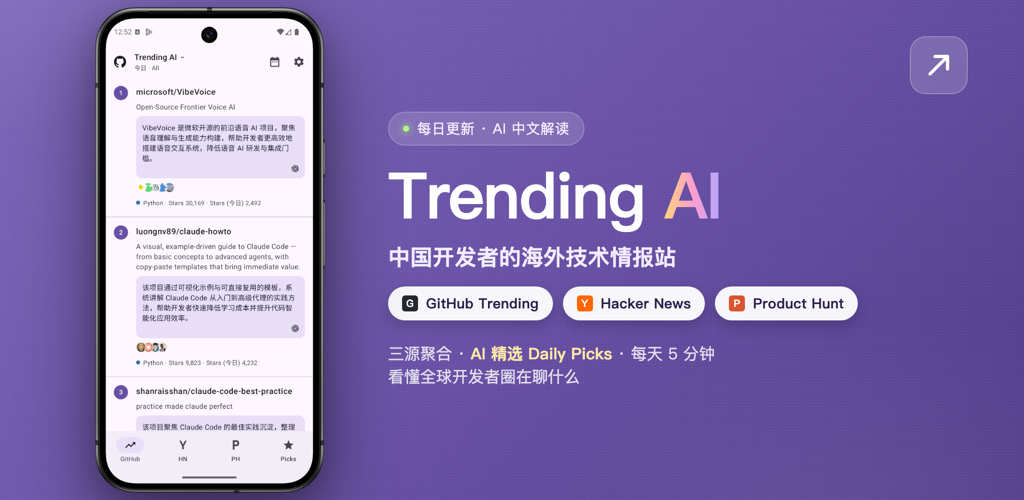
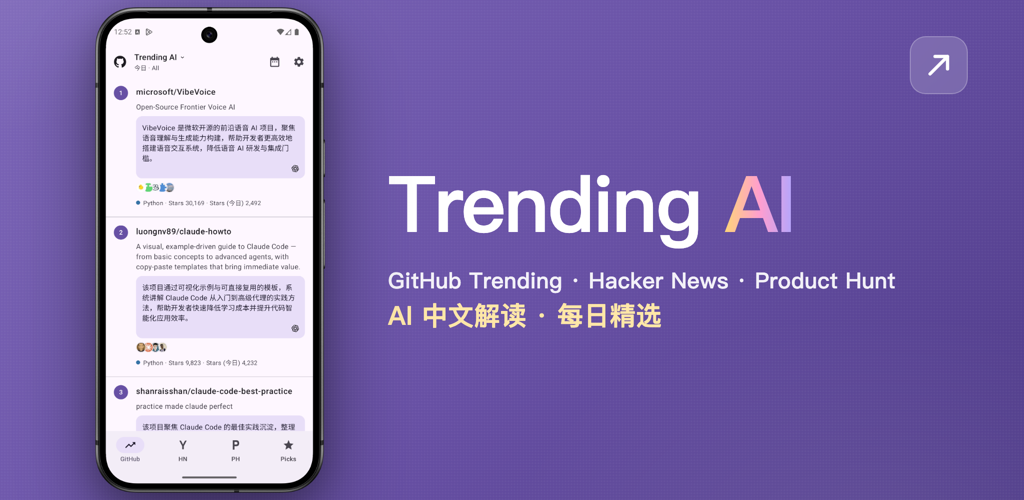
chore(assets): 简化置顶大图右侧文案
- 删除顶部胶囊、副标、三源徽章、底部描述行
- 主标加大至 78px，整体只剩两层：主标 + 单行副标
- 副标拆分突出「AI 中文解读 · 每日精选」金色高亮，强调中文化差异点

Changed region(s): [[0.375, 0.33, 0.875, 0.66], [0.375, 0.69, 0.7188, 0.78], [0.375, 0.21, 0.5938, 0.3]]

diff --git a/assets/feature-graphic.html b/assets/feature-graphic.html
@@ -73,11 +73,24 @@
     box-shadow: 0 0 8px #B4FF7A;
   }
   h1 {
-    font-size: 64px;
+    font-size: 78px;
     font-weight: 800;
     line-height: 1.0;
-    margin: 0 0 14px;
-    letter-spacing: -1.5px;
+    margin: 0 0 22px;
+    letter-spacing: -1.8px;
+  }
+  .tagline {
+    font-size: 22px;
+    line-height: 1.45;
+    color: rgba(255,255,255,0.92);
+    font-weight: 500;
+    letter-spacing: 0.2px;
+    max-width: 560px;
+  }
+  .tagline b {
+    color: #FFE7A8;
+    font-weight: 800;
+    font-size: 26px;
   }
   .tag {
     background: linear-gradient(90deg, #FFD479, #FF9ECF, #B0A6FF);
@@ -152,15 +165,8 @@
       <img class="device" src="screenshot/zh/home_github_light.png" alt="">
     </div>
     <div class="text-wrap">
-      <div class="eyebrow"><span class="dot"></span>每日更新 · AI 中文解读</div>
       <h1>Trending <span class="tag">AI</span></h1>
-      <div class="subtitle">中国开发者的海外技术情报站</div>
-      <div class="sources">
-        <span class="src gh"><span class="ico">G</span>GitHub Trending</span>
-        <span class="src hn"><span class="ico">Y</span>Hacker News</span>
-        <span class="src ph"><span class="ico">P</span>Product Hunt</span>
-      </div>
-      <div class="desc">三源聚合 · <b>AI 精选 Daily Picks</b> · 每天 5 分钟<br>看懂全球开发者圈在聊什么</div>
+      <div class="tagline">GitHub Trending · Hacker News · Product Hunt<br><b>AI 中文解读 · 每日精选</b></div>
     </div>
   </div>
   <div class="badge-arrow">
